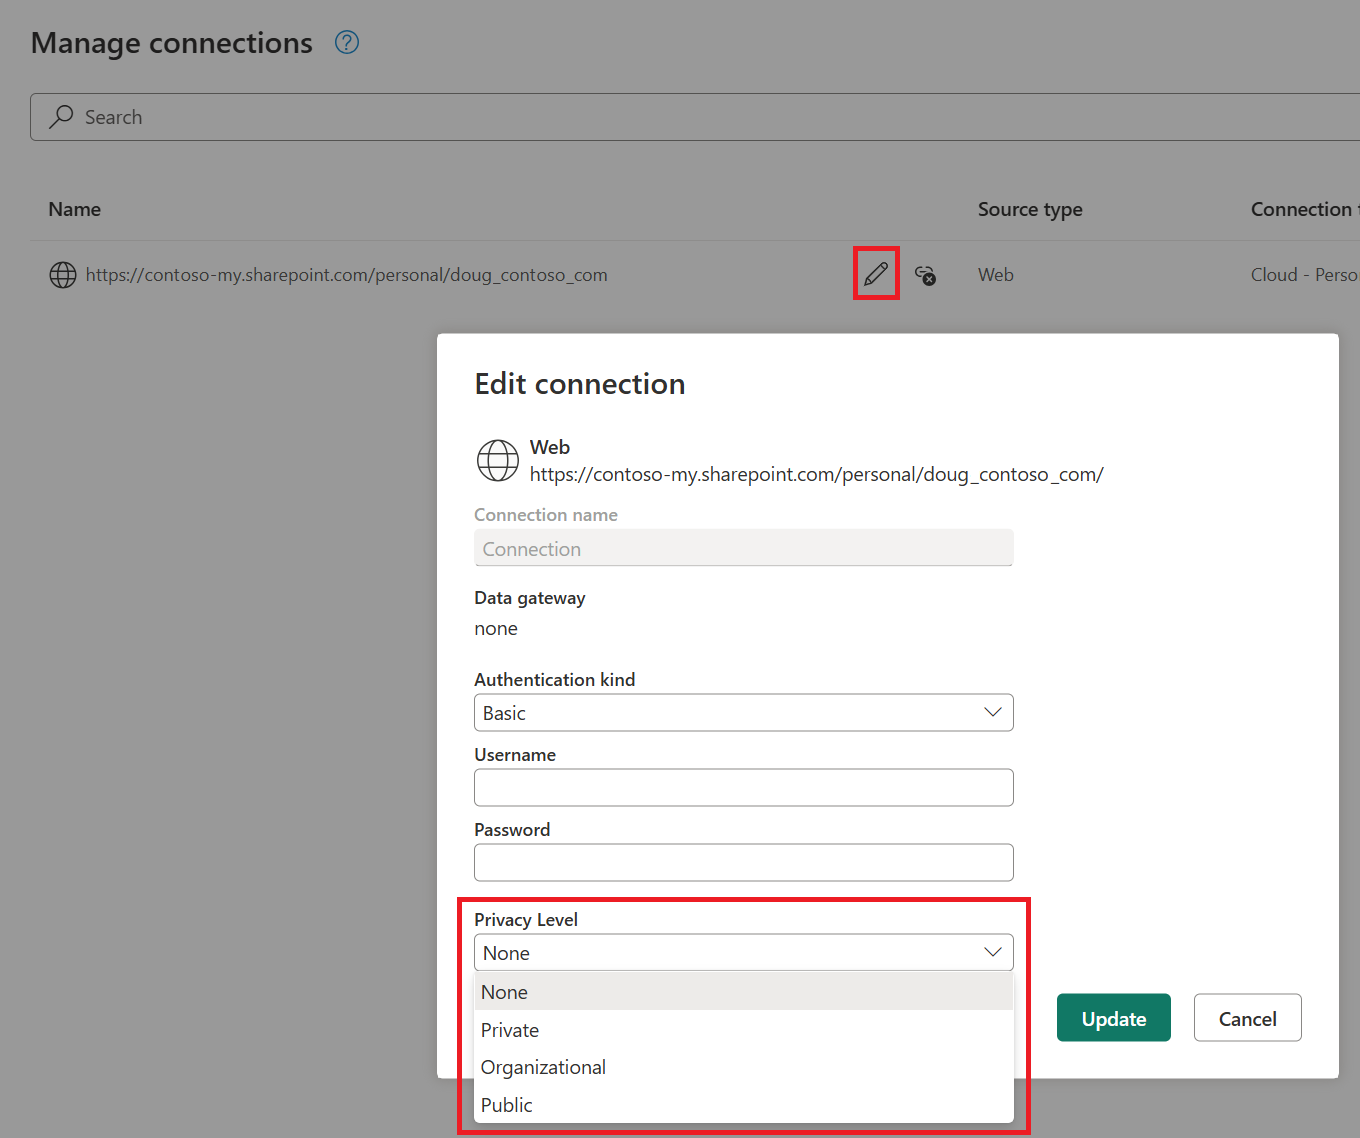
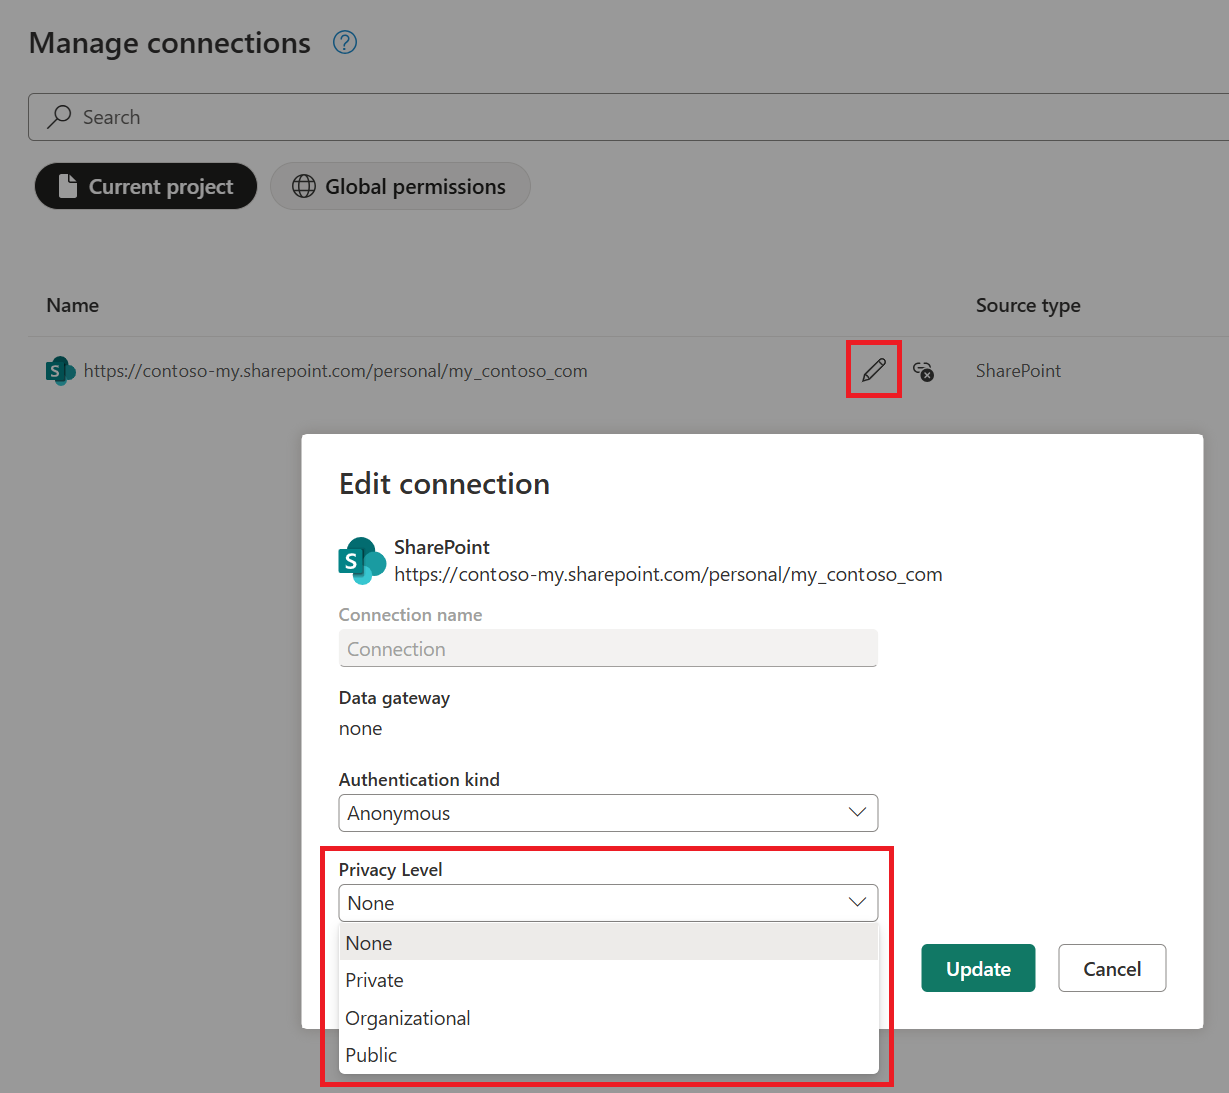
Update manage connections information

diff --git a/powerquery-docs/privacy-levels.md b/powerquery-docs/privacy-levels.md
@@ -4,7 +4,7 @@ description: Describes what privacy levels and privacy level options are and how
 author: ptyx507x
 ms.author: miescobar
 ms.topic: conceptual
-ms.date: 5/23/2024
+ms.date: 6/26/2024
 ---
 
 # Privacy levels
@@ -79,6 +79,7 @@ You can also set a connection's privacy level using the **Manage connections** o
 To set the privacy level using the **Manage connections** option:
 
 1. Select **Manage connections** in the **Home** tab of the online Power Query editor.
+1. Select either **Current project** or **Global permissions**. For more information about the differences between the current project and global permissions, go to [Manage connections](manage-connections.md).
 1. Select a connection.
 1. Select the **Edit** icon next to the name of the connection.
 1. Select the privacy level you want to use.
@@ -193,3 +194,8 @@ To allow combining data from multiple sources in Power Query Online:
 1. In the **Options** dialog, under **Project**, select **Privacy**.
 1. Select **Allow combining data from multiple sources. This could expose sensitive or confidential data to an unauthorized person**.
 1. Select **OK**.
+
+## Related content
+
+* [Behind the scenes of the Data Privacy Firewall](data-privacy-firewall.md)
+* [Manage connections](manage-connections.md)
